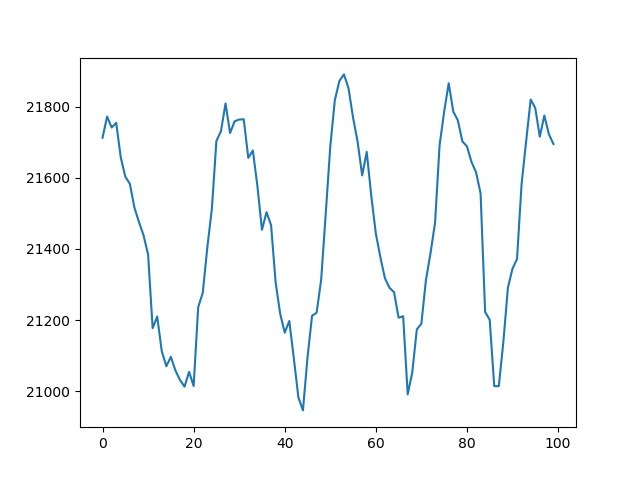
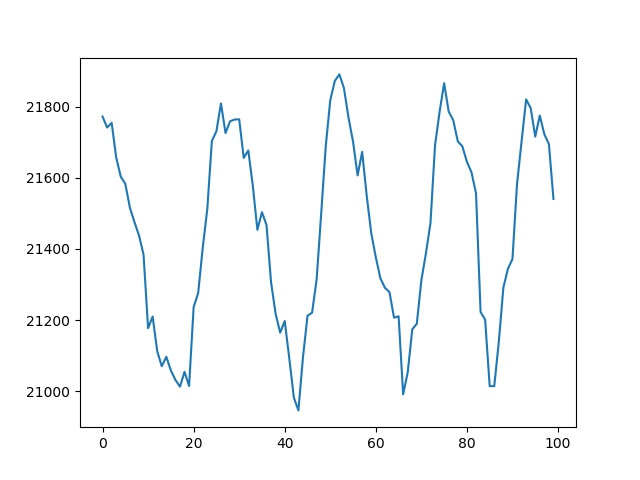
'auto'

Changed region(s): [[0.1562, 0.1562, 0.875, 0.8438]]

diff --git a/README.md b/README.md
@@ -1,5 +1,5 @@
 Frizider live: 8
-21694.75 
+21540.524999999998 
 0
 Temperatura:
 
